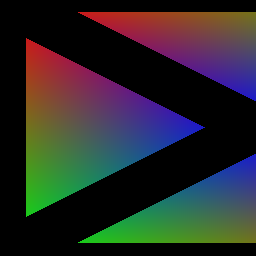
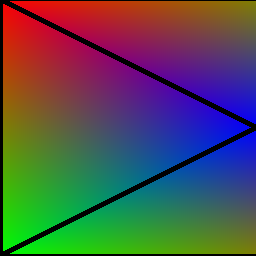
Updated prefab
Triangle prefab updated
new texture with thin black border

diff --git a/StellAR_Project/Assets/Scripts/UIscripts/Triangle.cs b/StellAR_Project/Assets/Scripts/UIscripts/Triangle.cs
@@ -76,7 +76,7 @@ public class Triangle : MonoBehaviour{
         };
 
         // create mesh and assign material
-        //tex = InitTexture();
+        //InitTexture();
         meshRenderer.material = material;
         meshRenderer.material.SetTexture("_MainTex", tex);
         mesh = new Mesh();
@@ -220,7 +220,7 @@ public class Triangle : MonoBehaviour{
                 weights = BaryCentric.getWeights(new Vector3(vertices[2].x * x, vertices[1].y * y, 0f), vertices);
                 color = new Color(weights.x, weights.y, weights.z);
                 for(int index = 0; index < 3; index++){
-                    if(weights[index] < 0.1){
+                    if(weights[index] < 0.01){
                         color = new Color(0, 0, 0);
                     }
                 }
@@ -230,13 +230,13 @@ public class Triangle : MonoBehaviour{
         tex.SetPixels(colors);
         tex.Apply();
         SaveTextureAsPNG(tex, "Assets/Materials/PlanetMaterials/Materials/colorMapTex.png");
+        Debug.Log("saving");
         return tex;
     }
 
     public static void SaveTextureAsPNG(Texture2D _texture, string _fullPath){
         byte[] _bytes =_texture.EncodeToPNG();
         System.IO.File.WriteAllBytes(_fullPath, _bytes);
-        Debug.Log(_bytes.Length/1024  + "Kb was saved as: " + _fullPath);
     }
 
 
